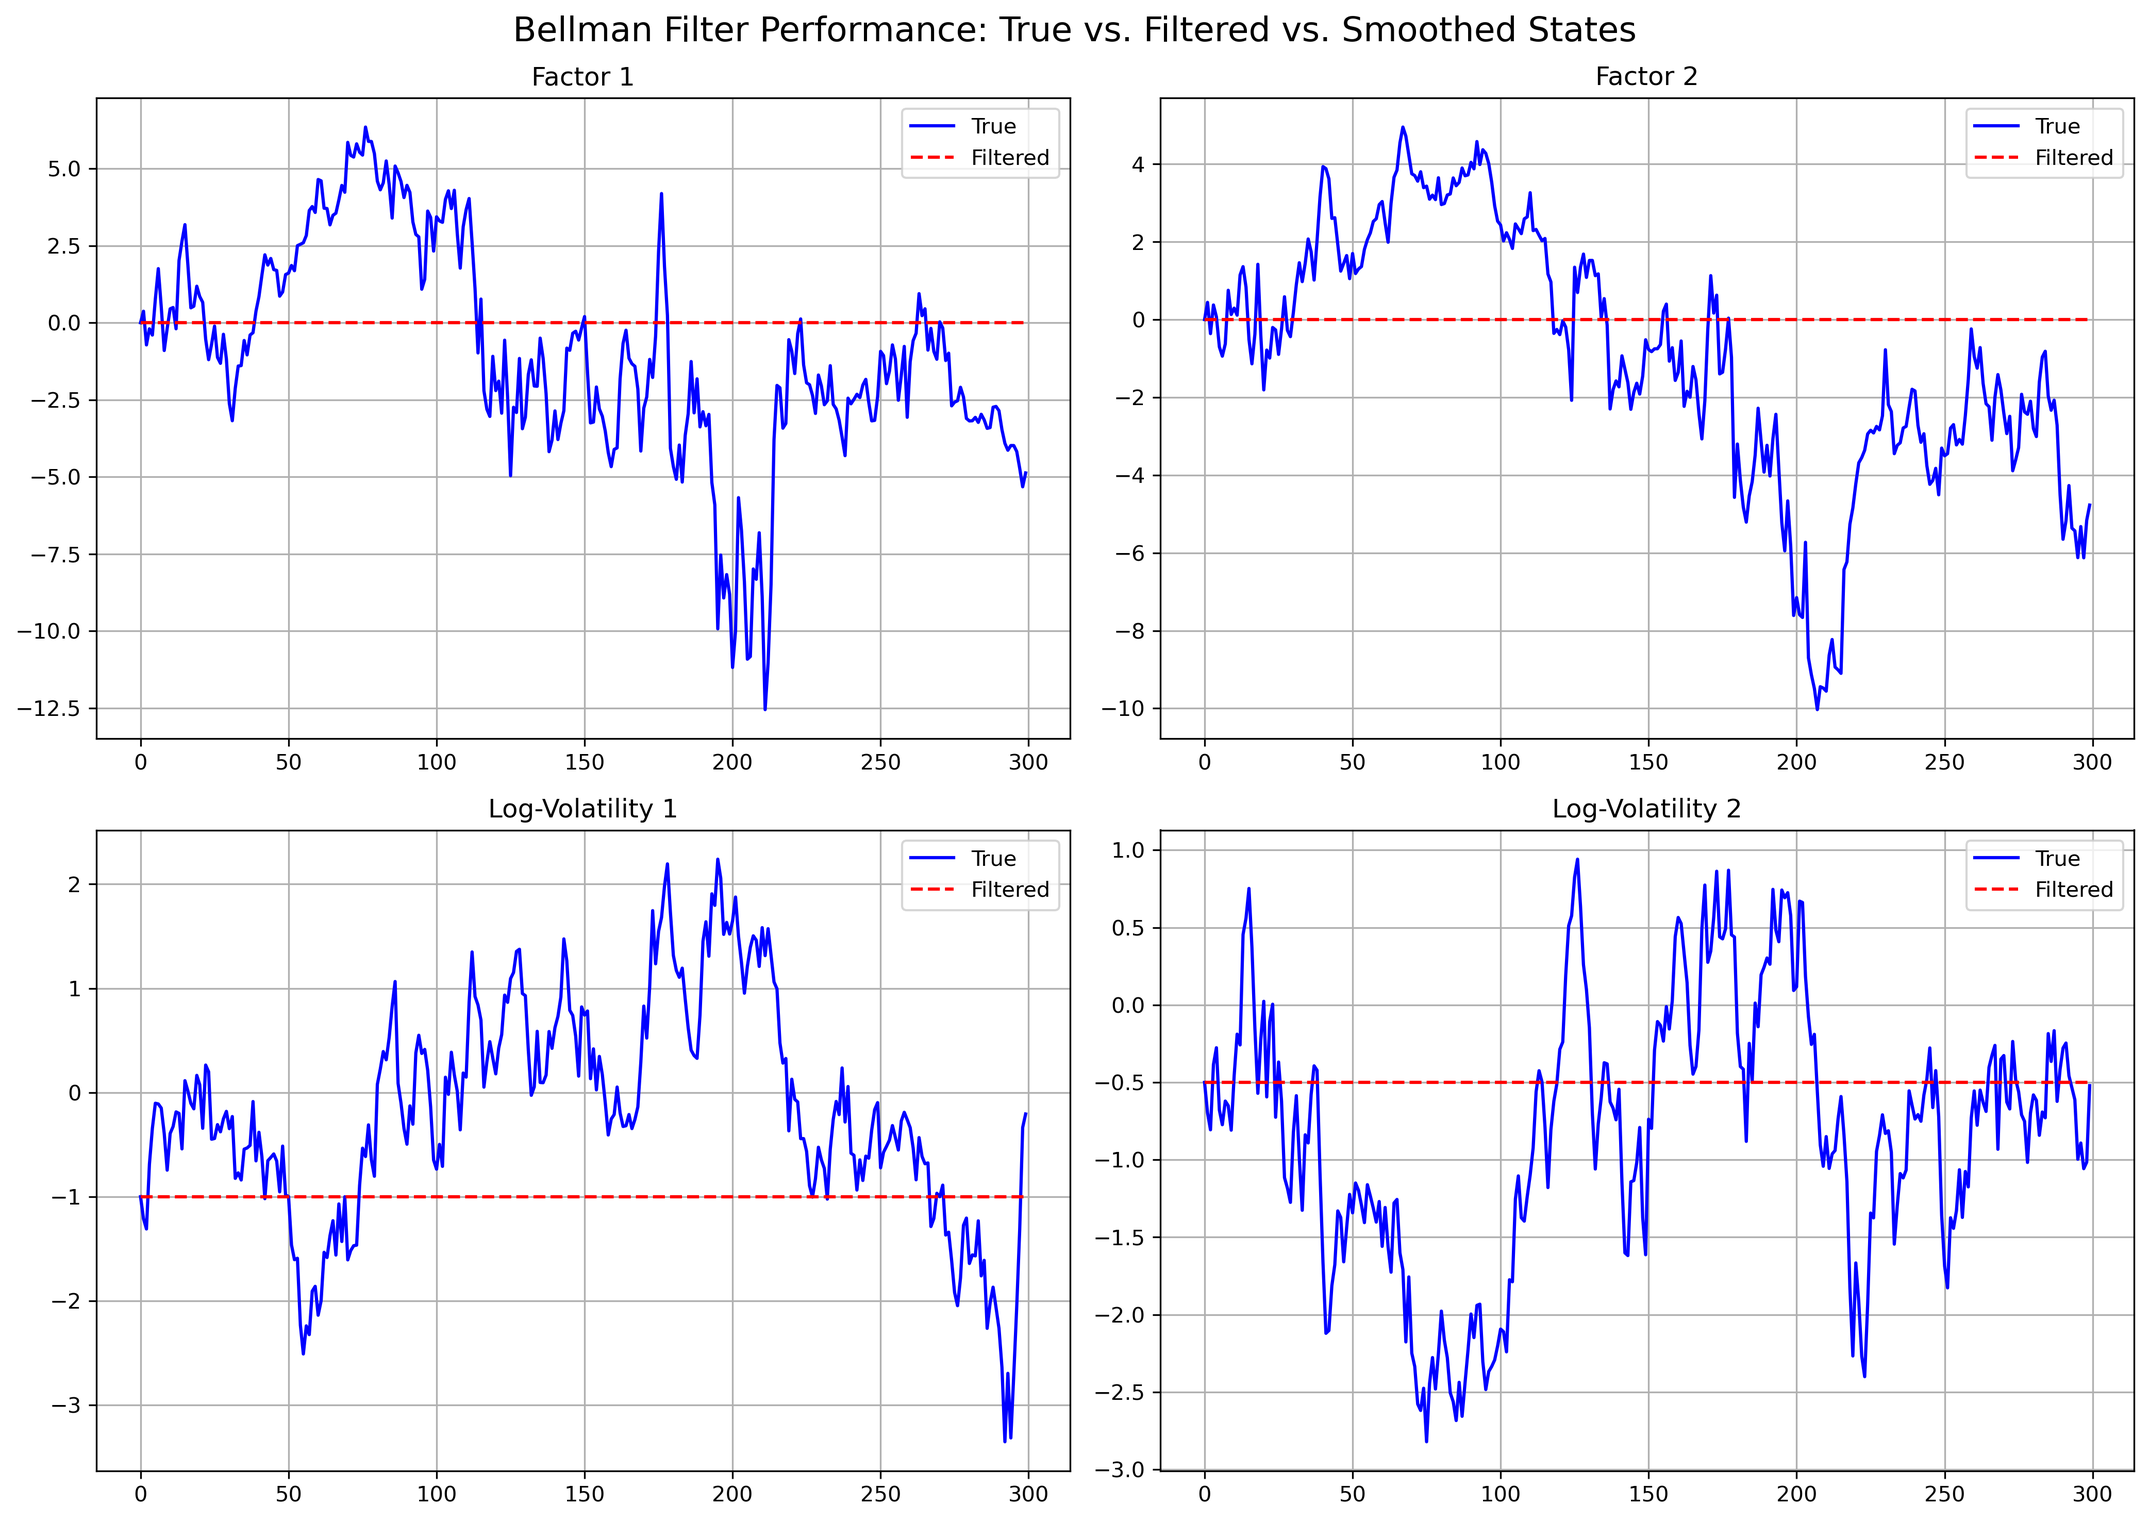
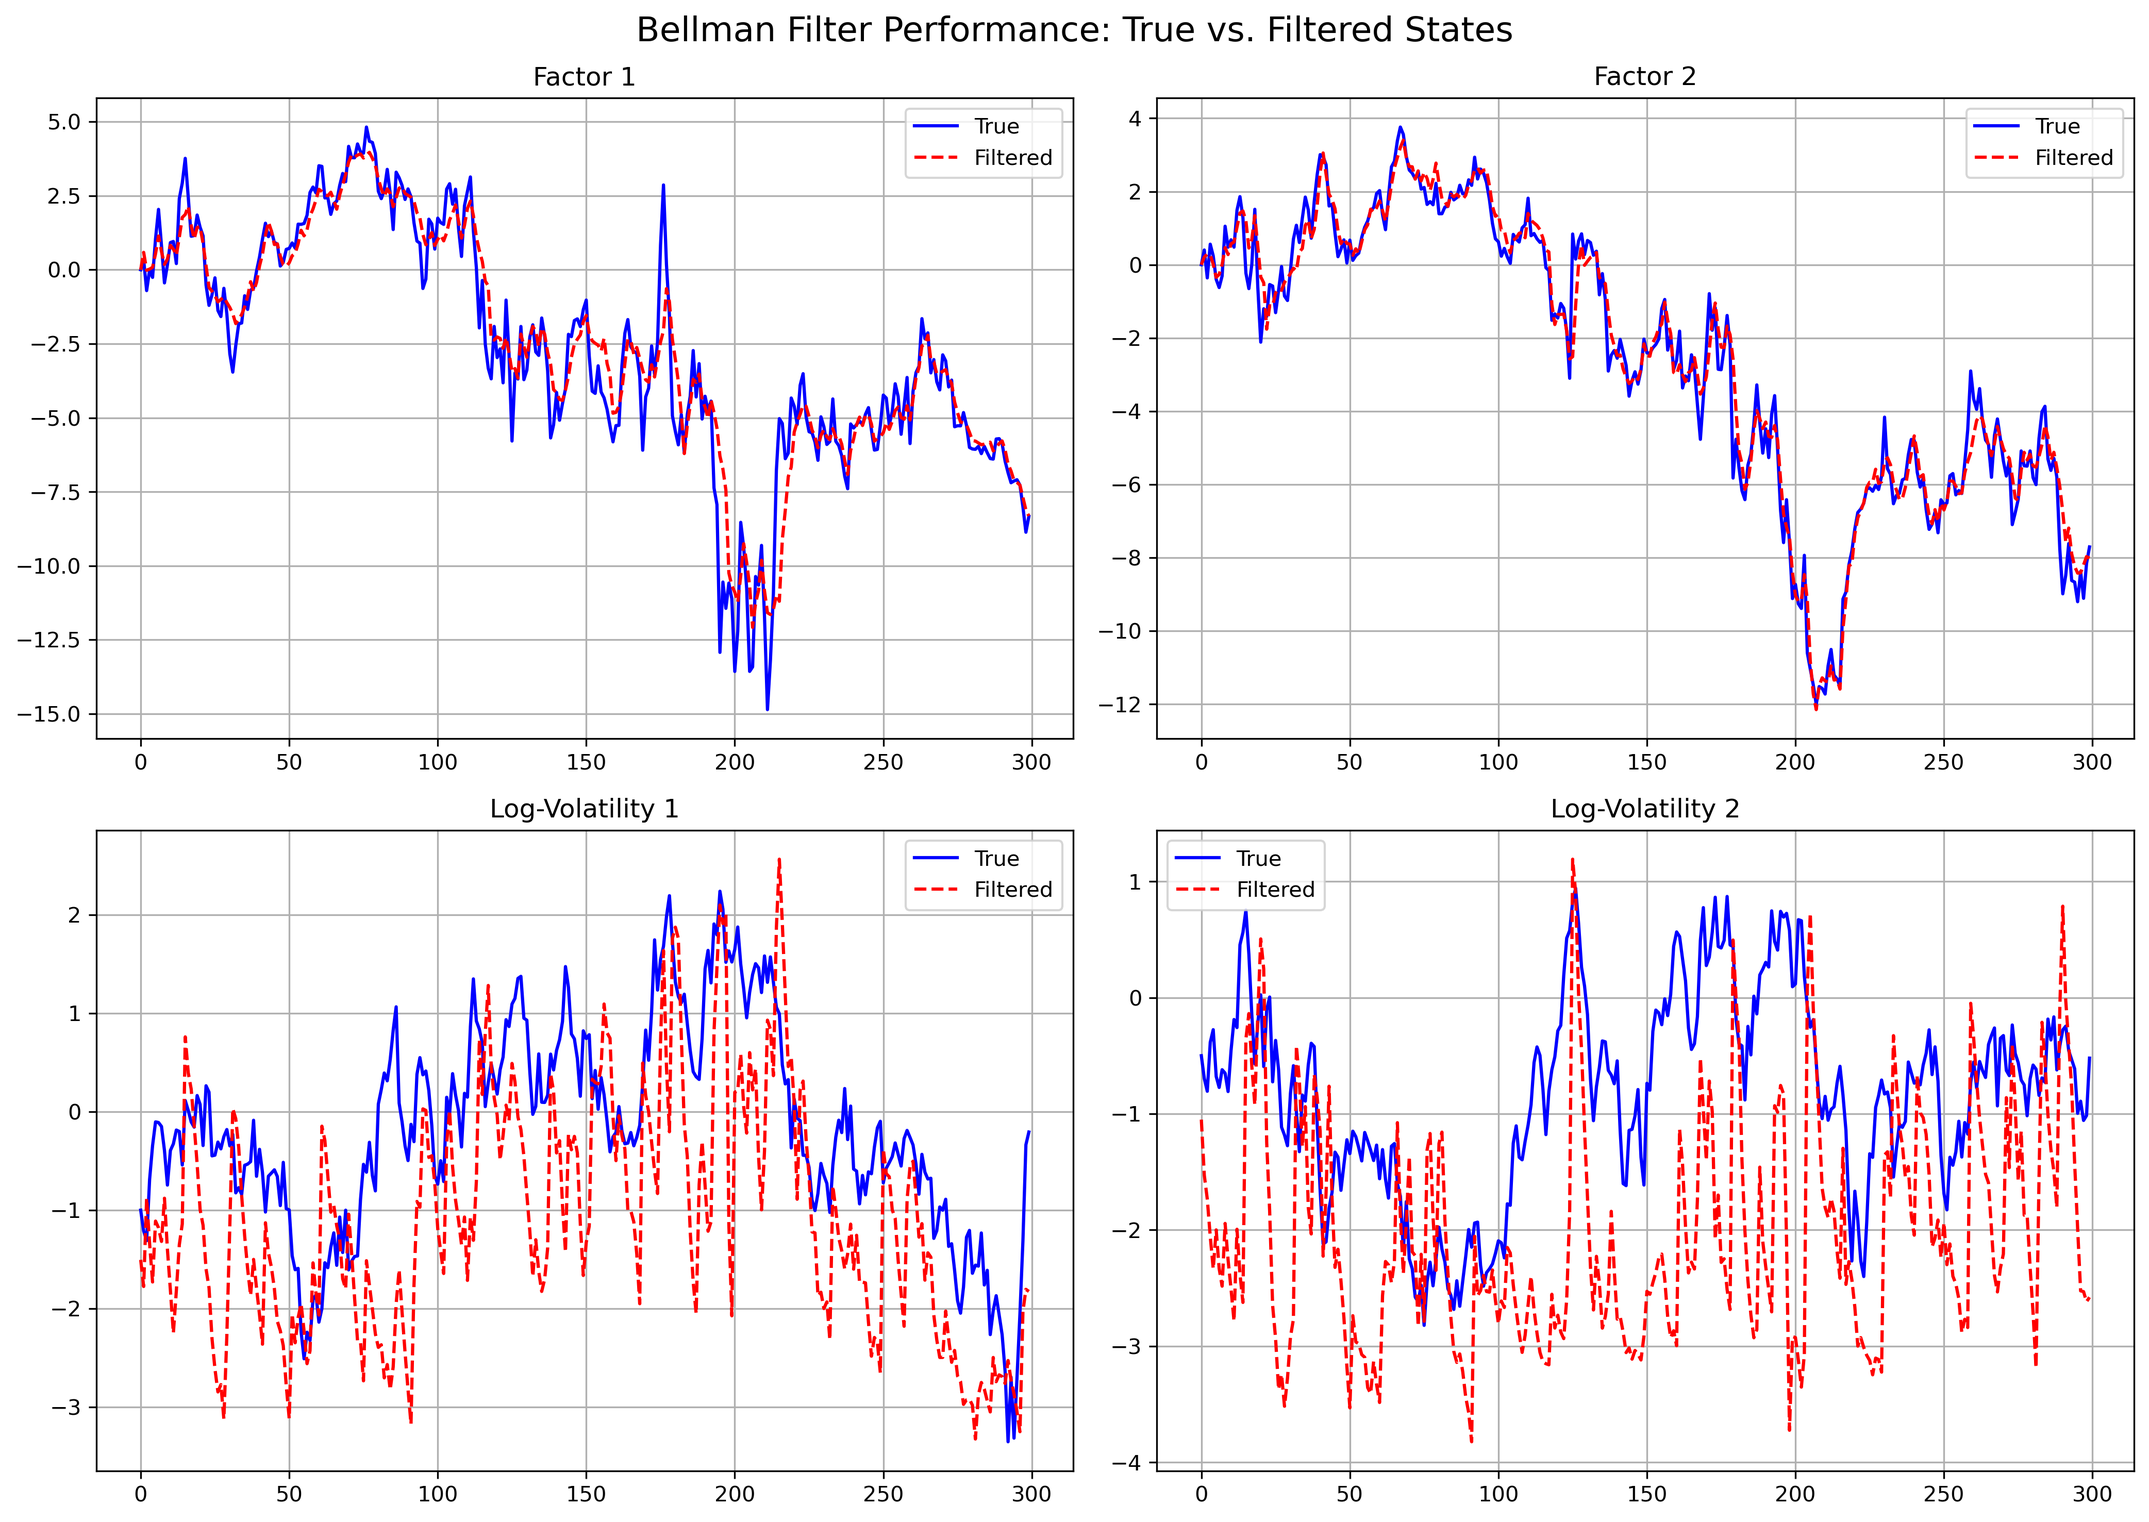
Backtrack no standardization

diff --git a/tests/test_particle_filter.py b/tests/test_particle_filter.py
@@ -22,11 +22,11 @@ from functions.simulation import DFSV_params, simulate_DFSV
 
 class TestParticleFilter(unittest.TestCase):
     """Test suite for the DFSVParticleFilter class."""
-    
+
     def create_test_parameters(self):
         """
         Create a set of test parameters for a small DFSV model.
-        
+
         Returns
         -------
         DFSV_params
@@ -35,39 +35,25 @@ class TestParticleFilter(unittest.TestCase):
         # Define model dimensions
         N = 4  # Number of observed series
         K = 2  # Number of factors
-        
+
         # Factor loadings
-        lambda_r = np.array([
-            [0.8, 0.2],
-            [0.7, 0.3],
-            [0.3, 0.7],
-            [0.2, 0.8]
-        ])
-        
+        lambda_r = np.array([[0.8, 0.2], [0.7, 0.3], [0.3, 0.7], [0.2, 0.8]])
+
         # Factor persistence
-        Phi_f = np.array([
-            [0.9, 0.1],
-            [0.1, 0.9]
-        ])
-        
+        Phi_f = np.array([[0.9, 0.1], [0.1, 0.9]])
+
         # Log-volatility persistence
-        Phi_h = np.array([
-            [0.95, 0.0],
-            [0.0, 0.95]
-        ])
-        
+        Phi_h = np.array([[0.95, 0.0], [0.0, 0.95]])
+
         # Log-volatility long-run mean
         mu = np.array([-1.0, -0.5])
-        
+
         # Idiosyncratic variance (diagonal)
         sigma2 = np.array([0.1, 0.1, 0.1, 0.1])
-        
+
         # Log-volatility noise covariance
-        Q_h = np.array([
-            [0.1, 0.02],
-            [0.02, 0.1]
-        ])
-        
+        Q_h = np.array([[0.1, 0.02], [0.02, 0.1]])
+
         # Create parameter object
         params = DFSV_params(
             N=N,
@@ -77,15 +63,15 @@ class TestParticleFilter(unittest.TestCase):
             Phi_h=Phi_h,
             mu=mu,
             sigma2=sigma2,
-            Q_h=Q_h
+            Q_h=Q_h,
         )
-        
+
         return params
 
     def test_particle_filter_estimation(self):
         """
         Test the particle filter's ability to estimate states from simulated data.
-        
+
         This test:
         1. Generates synthetic time series data from a known DFSV model
         2. Applies the particle filter to estimate states
@@ -93,98 +79,114 @@ class TestParticleFilter(unittest.TestCase):
         """
         # Set random seed for reproducibility
         np.random.seed(42)
-        
+
         # Create test parameters
         params = self.create_test_parameters()
-        
+
         # Simulate data
         T = 200  # Time series length
         returns, true_factors, true_log_vols = simulate_DFSV(params, T=T, seed=42)
-        
+
         # Create and run particle filter
         pf = DFSVParticleFilter(params, num_particles=500)
-        filtered_states, filtered_covs, log_likelihood = pf.filter(returns)
-        
+        filtered_states, filtered_covs, log_likelihood = pf.filter(params, returns)
+
         # Extract factor and volatility estimates
         filtered_factors = pf.get_filtered_factors()
         filtered_log_vols = pf.get_filtered_volatilities()
-        
+
         # Test: Check correlation between true and filtered factors
         for k in range(params.K):
             corr = np.corrcoef(true_factors[:, k], filtered_factors[:, k])[0, 1]
             self.assertGreater(corr, 0.7, f"Factor {k} correlation too low: {corr}")
-        
+
         # Test: Check correlation between true and filtered log-volatilities
         for k in range(params.K):
             corr = np.corrcoef(true_log_vols[:, k], filtered_log_vols[:, k])[0, 1]
-            self.assertGreater(corr, 0.6, f"Log-volatility {k} correlation too low: {corr}")
-        
+            self.assertGreater(
+                corr, 0.6, f"Log-volatility {k} correlation too low: {corr}"
+            )
+
         # Test: Check the average estimation error is within reasonable bounds
-        factor_rmse = np.sqrt(np.mean((true_factors - filtered_factors)**2, axis=0))
-        vol_rmse = np.sqrt(np.mean((true_log_vols - filtered_log_vols)**2, axis=0))
-        
+        factor_rmse = np.sqrt(np.mean((true_factors - filtered_factors) ** 2, axis=0))
+        vol_rmse = np.sqrt(np.mean((true_log_vols - filtered_log_vols) ** 2, axis=0))
+
         self.assertLess(factor_rmse, 0.5, f"Factor RMSE too high: {factor_rmse}")
         self.assertLess(vol_rmse, 1.0, f"Log-volatility RMSE too high: {vol_rmse}")
-        
+
         # Print additional information (won't affect test outcome but helpful for analysis)
-        print(f"Factor correlation: {np.corrcoef(true_factors.flatten(), filtered_factors.flatten())[0, 1]:.4f}")
-        print(f"Log-volatility correlation: {np.corrcoef(true_log_vols.flatten(), filtered_log_vols.flatten())[0, 1]:.4f}")
+        print(
+            f"Factor correlation: {np.corrcoef(true_factors.flatten(), filtered_factors.flatten())[0, 1]:.4f}"
+        )
+        print(
+            f"Log-volatility correlation: {np.corrcoef(true_log_vols.flatten(), filtered_log_vols.flatten())[0, 1]:.4f}"
+        )
         print(f"Factor RMSE: {factor_rmse:.4f}")
         print(f"Log-volatility RMSE: {vol_rmse:.4f}")
 
     def test_particle_filter_numeric_stability(self):
         """
         Test the particle filter's numerical stability with a longer time series.
-        
+
         This test focuses on making sure the filter doesn't break down over long
         sequences and maintains reasonable estimation quality.
         """
         # Create test parameters
         params = self.create_test_parameters()
-        
+
         # Simulate a longer series
         T = 500
         returns, true_factors, true_log_vols = simulate_DFSV(params, T=T, seed=123)
-        
+
         # Create and run particle filter with more particles for stability
         pf = DFSVParticleFilter(params, num_particles=1000)
         filtered_states, filtered_covs, log_likelihood = pf.filter(returns)
-        
+
         # Check that the filter completes without errors and returns valid estimates
-        self.assertFalse(np.any(np.isnan(filtered_states)), "Filter produced NaN values")
-        self.assertFalse(np.any(np.isinf(filtered_states)), "Filter produced infinite values")
-        self.assertIsInstance(log_likelihood, float, "Log-likelihood is not a valid float")
+        self.assertFalse(
+            np.any(np.isnan(filtered_states)), "Filter produced NaN values"
+        )
+        self.assertFalse(
+            np.any(np.isinf(filtered_states)), "Filter produced infinite values"
+        )
+        self.assertIsInstance(
+            log_likelihood, float, "Log-likelihood is not a valid float"
+        )
 
     def test_visualization(self):
         """
         Test to generate and save visual comparison of particle filter results.
         """
         # Create an absolute path for the output file
-        output_dir = os.path.join(os.path.dirname(os.path.abspath(__file__)), "..", "outputs")
+        output_dir = os.path.join(
+            os.path.dirname(os.path.abspath(__file__)), "..", "outputs"
+        )
         save_path = os.path.join(output_dir, "pf_visual_comparison.png")
-        
+
         # Ensure the output directory exists
         os.makedirs(os.path.dirname(save_path), exist_ok=True)
-        
+
         # Generate visual comparison and save to file
         fig = self.create_visual_comparison(save_path=save_path)
-        
+
         # Basic assertion to ensure the figure was created
         self.assertIsInstance(fig, plt.Figure)
-        
+
         # Verify the file was actually saved
-        self.assertTrue(os.path.exists(save_path), f"Figure was not saved to {save_path}")
+        self.assertTrue(
+            os.path.exists(save_path), f"Figure was not saved to {save_path}"
+        )
         print(f"Figure successfully saved to {save_path}")
 
     def create_visual_comparison(self, save_path=None):
         """
         Create visual comparisons between true, filtered, and smoothed states.
-        
+
         Parameters
         ----------
         save_path : str, optional
             Path to save the figure. If None, the figure will be displayed.
-            
+
         Returns
         -------
         plt.Figure
@@ -192,22 +194,22 @@ class TestParticleFilter(unittest.TestCase):
         """
         # Set random seed for reproducibility
         np.random.seed(456)
-        
+
         # Create test parameters
         params = self.create_test_parameters()
-        
+
         # Simulate data
         T = 600
         returns, true_factors, true_log_vols = simulate_DFSV(params, T=T, seed=456)
-        
+
         # Create and run particle filter
         pf = DFSVParticleFilter(params, num_particles=1000)
         filtered_states, filtered_covs, log_likelihood = pf.filter(returns)
-        
+
         # Extract filtered factors and volatilities first
         filtered_factors = pf.get_filtered_factors()
         filtered_log_vols = pf.get_filtered_volatilities()
-        
+
         try:
             # Try running smoother - wrap in try-except in case it fails
             smoothed_states, smoothed_covs = pf.smooth()
@@ -217,85 +219,97 @@ class TestParticleFilter(unittest.TestCase):
         except Exception as e:
             print(f"Smoothing failed with error: {e}")
             include_smoothed = False
-            
+
         # Calculate return variances
         # True covvariances
-        true_variances = np.zeros((T, params.N,params.N))
-        filtered_variances = np.zeros((T, params.N,params.N))
+        true_variances = np.zeros((T, params.N, params.N))
+        filtered_variances = np.zeros((T, params.N, params.N))
         if include_smoothed:
-            smoothed_variances = np.zeros((T, params.N,params.N))
-            
+            smoothed_variances = np.zeros((T, params.N, params.N))
+
         for t in range(T):
             # Calculate true variances
             true_vol_matrix = np.diag(np.exp(true_log_vols[t]))
-            true_variances[t,:,:] = np.diag(params.lambda_r @ true_vol_matrix @ params.lambda_r.T) + params.sigma2
-            
+            true_variances[t, :, :] = (
+                np.diag(params.lambda_r @ true_vol_matrix @ params.lambda_r.T)
+                + params.sigma2
+            )
+
             # Calculate filtered variances
             filtered_vol_matrix = np.diag(np.exp(filtered_log_vols[t]))
-            filtered_variances[t,:,:] = np.diag(params.lambda_r @ filtered_vol_matrix @ params.lambda_r.T) + params.sigma2
-            
+            filtered_variances[t, :, :] = (
+                np.diag(params.lambda_r @ filtered_vol_matrix @ params.lambda_r.T)
+                + params.sigma2
+            )
+
             if include_smoothed:
                 # Calculate smoothed variances
                 smoothed_vol_matrix = np.diag(np.exp(smoothed_log_vols[t]))
-                smoothed_variances[t,:,:] = np.diag(params.lambda_r @ smoothed_vol_matrix @ params.lambda_r.T) + params.sigma2
-        
+                smoothed_variances[t, :, :] = (
+                    np.diag(params.lambda_r @ smoothed_vol_matrix @ params.lambda_r.T)
+                    + params.sigma2
+                )
+
         # Create figure with subplots for factors, log-volatilities, errors and return variances
         fig, axs = plt.subplots(4, 2, figsize=(15, 16))
-        
+
         # Plot factors
         for k in range(params.K):
             ax = axs[0, k]
-            ax.plot(true_factors[:, k], 'b-', label='True')
-            ax.plot(filtered_factors[:, k], 'r--', label='Filtered')
+            ax.plot(true_factors[:, k], "b-", label="True")
+            ax.plot(filtered_factors[:, k], "r--", label="Filtered")
             if include_smoothed:
-                ax.plot(smoothed_factors[:, k], 'g-.', label='Smoothed')
-            ax.set_title(f'Factor {k+1}')
+                ax.plot(smoothed_factors[:, k], "g-.", label="Smoothed")
+            ax.set_title(f"Factor {k + 1}")
             ax.legend()
             ax.grid(True)
-        
+
         # Plot volatilities
         for k in range(params.K):
             ax = axs[1, k]
-            ax.plot(np.exp(true_log_vols[:, k]/2), 'b-', label='True')
-            ax.plot(np.exp(filtered_log_vols[:, k]/2), 'r--', label='Filtered')
+            ax.plot(np.exp(true_log_vols[:, k] / 2), "b-", label="True")
+            ax.plot(np.exp(filtered_log_vols[:, k] / 2), "r--", label="Filtered")
             if include_smoothed:
-                ax.plot(np.exp(smoothed_log_vols[:, k]/2), 'g-.', label='Smoothed')
-            ax.set_title(f'Volatility {k+1}')
+                ax.plot(np.exp(smoothed_log_vols[:, k] / 2), "g-.", label="Smoothed")
+            ax.set_title(f"Volatility {k + 1}")
             ax.legend()
             ax.grid(True)
-            
-# Plot log-volatility errors
+
+        # Plot log-volatility errors
         for k in range(params.K):
             ax = axs[2, k]
             filtered_error = filtered_log_vols[:, k] - true_log_vols[:, k]
-            ax.plot(filtered_error, 'r-', label='Filtered Error')
-            ax.axhline(y=0, color='k', linestyle='--')
-            ax.set_title(f'Log-Volatility {k+1} Error')
+            ax.plot(filtered_error, "r-", label="Filtered Error")
+            ax.axhline(y=0, color="k", linestyle="--")
+            ax.set_title(f"Log-Volatility {k + 1} Error")
             ax.legend()
             ax.grid(True)
-            
+
         # Plot return variances (show for first 2 return series)
         for n in range(min(2, params.N)):
             ax = axs[3, n]
-            ax.plot(true_variances[:, n,n], 'b-', label='True')
-            ax.plot(filtered_variances[:, n,n], 'r--', label='Filtered')
+            ax.plot(true_variances[:, n, n], "b-", label="True")
+            ax.plot(filtered_variances[:, n, n], "r--", label="Filtered")
             if include_smoothed:
-                ax.plot(smoothed_variances[:, n,n], 'g-,', label='Smoothed')
-            ax.set_title(f'Return {n+1} Variance')
+                ax.plot(smoothed_variances[:, n, n], "g-,", label="Smoothed")
+            ax.set_title(f"Return {n + 1} Variance")
             ax.legend()
             ax.grid(True)
-        
-        fig.suptitle('Particle Filter Performance: True vs. Filtered vs. Smoothed States', fontsize=16)
+
+        fig.suptitle(
+            "Particle Filter Performance: True vs. Filtered vs. Smoothed States",
+            fontsize=16,
+        )
         plt.tight_layout()
-        
+
         # Make sure to save the figure if a path is provided
         if save_path:
             try:
-                plt.savefig(save_path, dpi=300, bbox_inches='tight')
+                plt.savefig(save_path, dpi=300, bbox_inches="tight")
                 print(f"Figure successfully saved to {save_path}")
             except Exception as e:
                 print(f"Failed to save figure: {e}")
-        
+
         return fig
 
 
